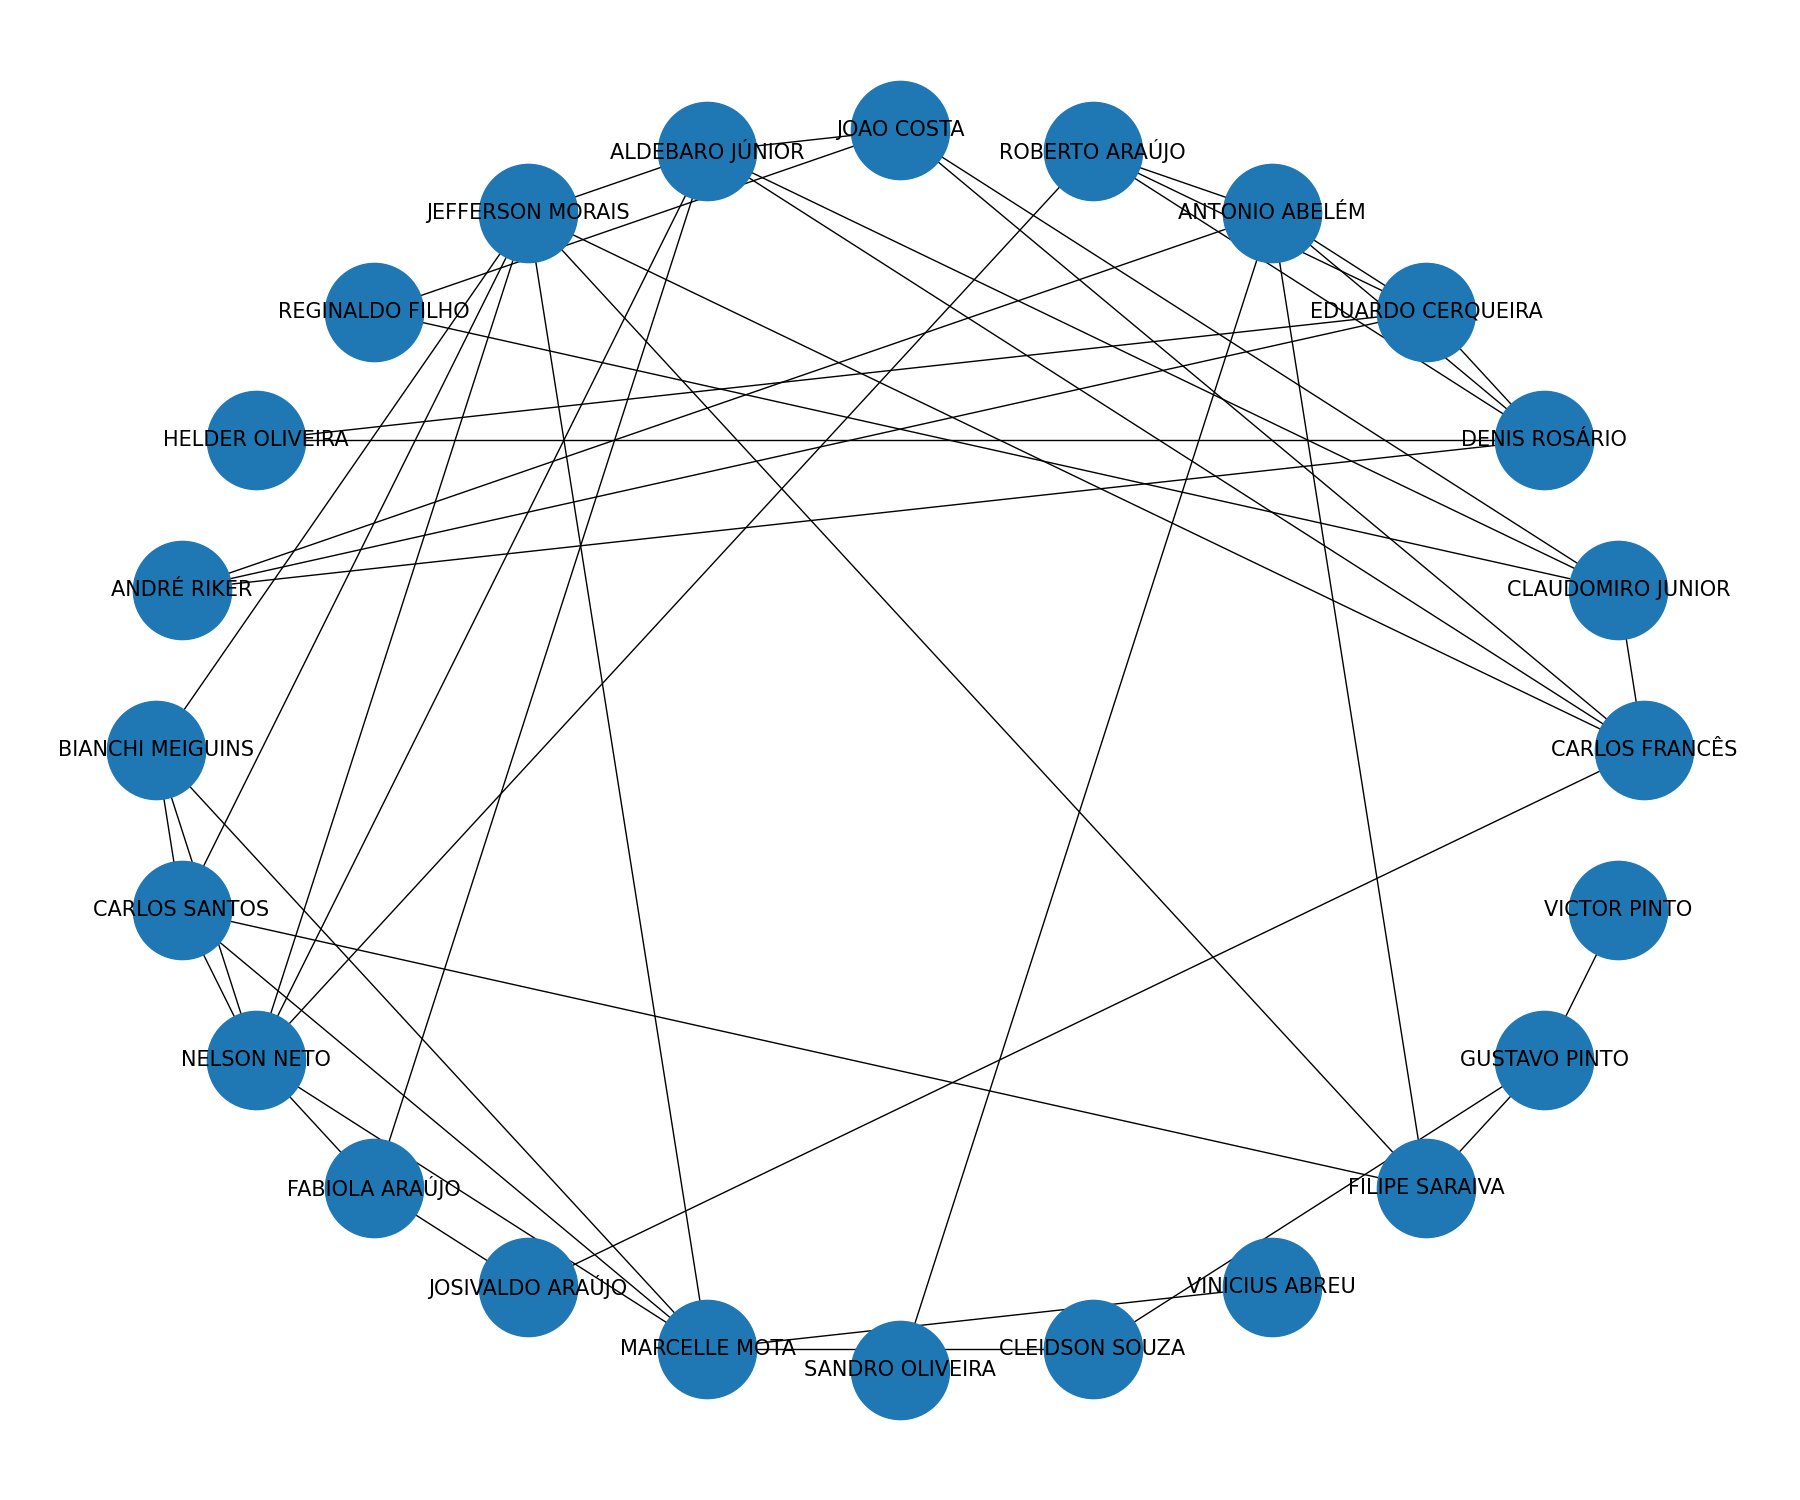
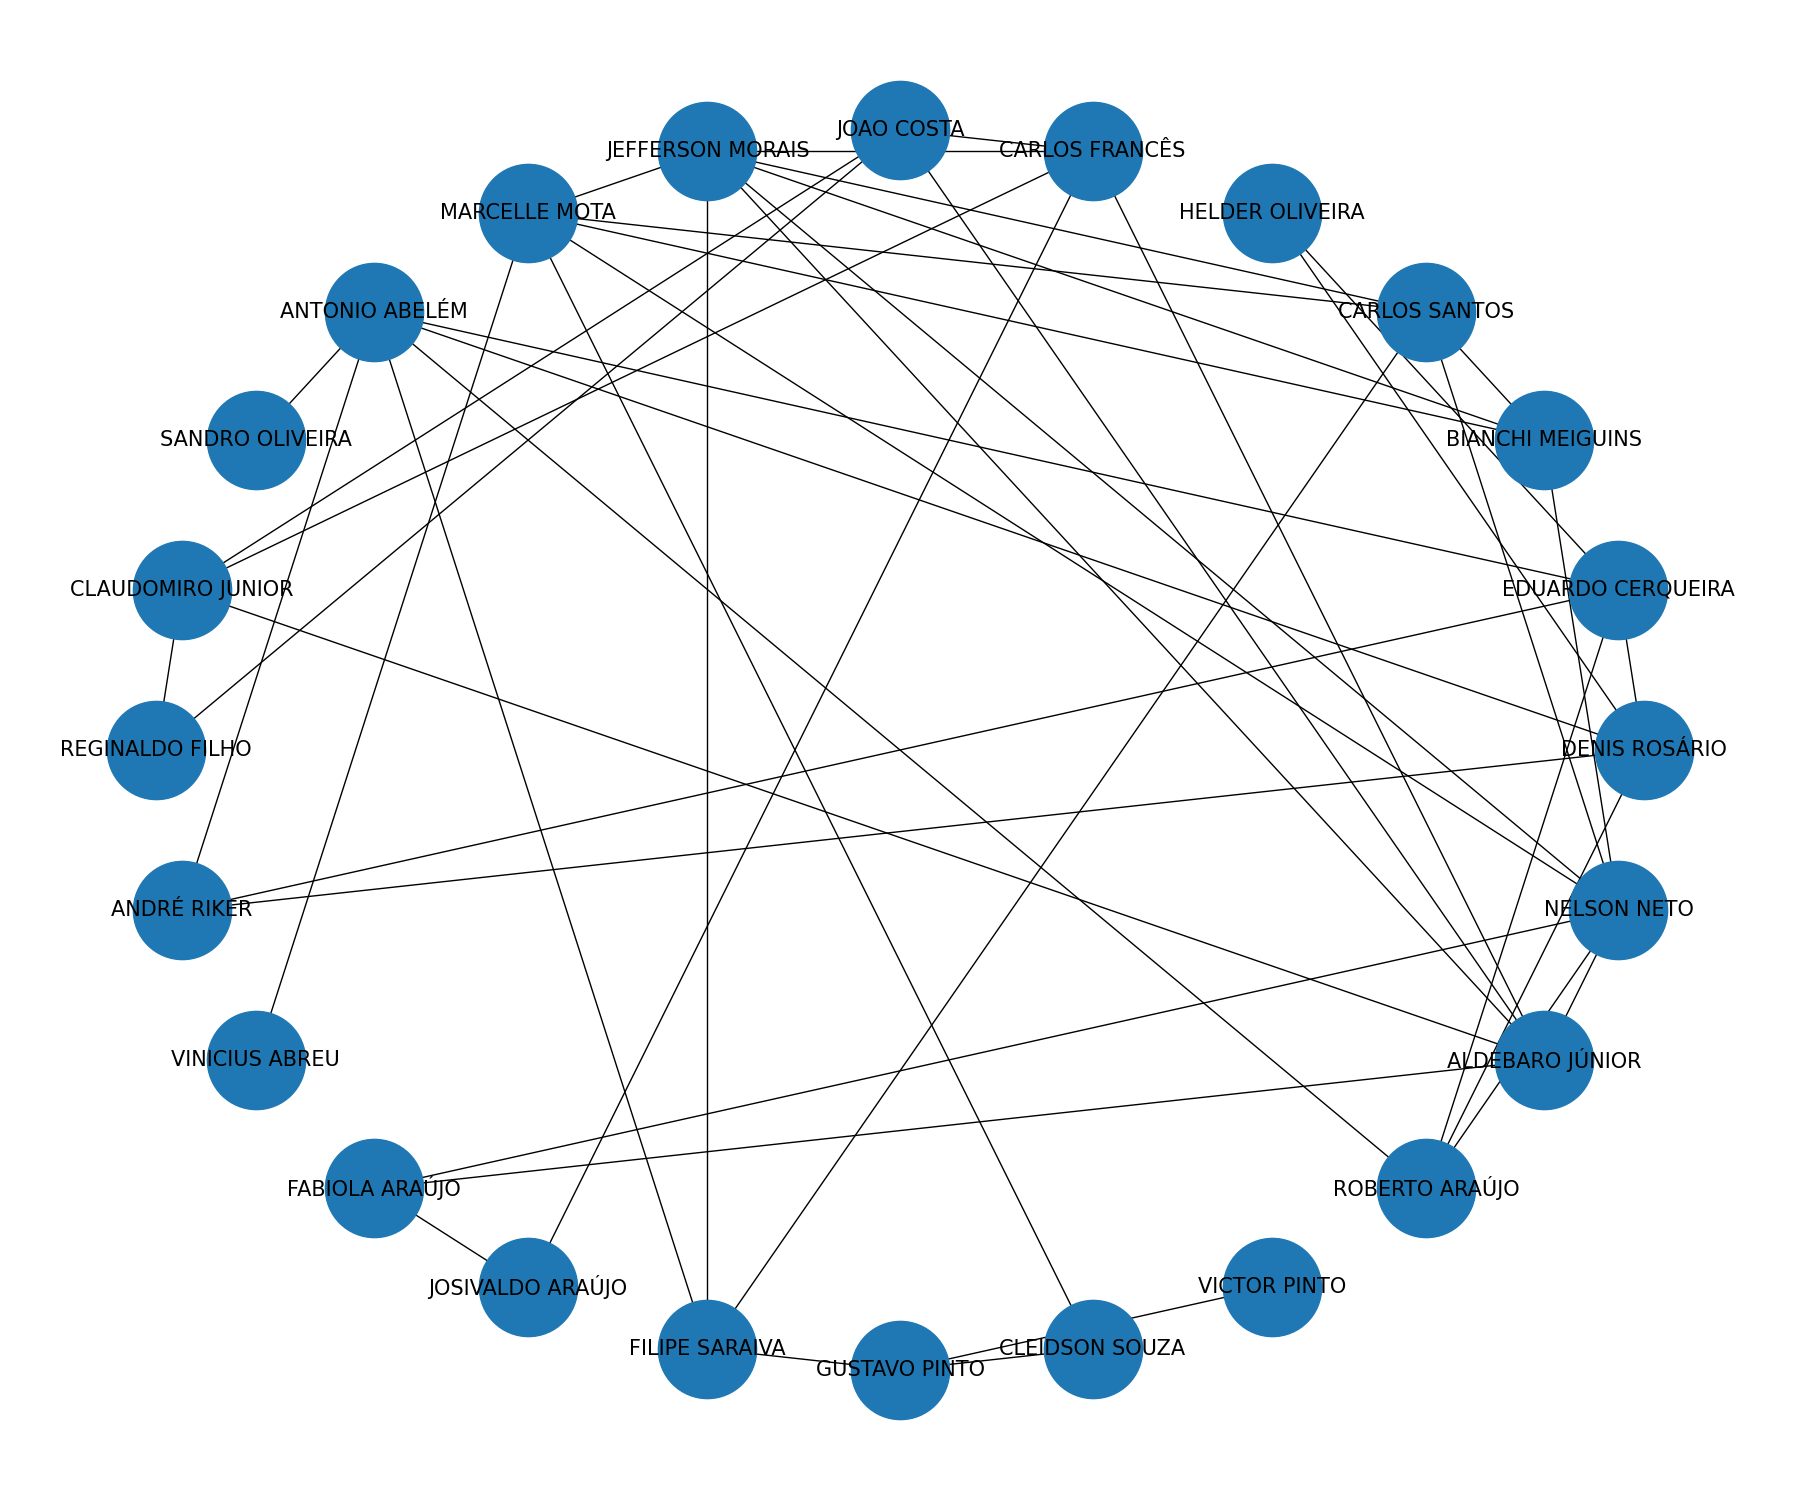
arrumar o grafo

diff --git a/models/consulta.py b/models/consulta.py
@@ -31,7 +31,8 @@ def lista_por_id(id):
 
 def lista(from_year, to_year):
 
-    sql = "select id, nome_docente, documento,ano_evento, titulo,doi,sigla,nome_evento, autores,estratos, round(notas,5) from resultados r WHERE ano_evento >= " + from_year + " AND ano_evento <= " + to_year + " order by ano_evento asc;"
+    sql = "select id, nome_docente, documento,ano_evento, titulo,doi,sigla,nome_evento, autores,estratos, round(notas,5) from resultados r WHERE ano_evento >= " + \
+        from_year + " AND ano_evento <= " + to_year + " order by ano_evento asc;"
     cursor = db.cursor()
     cursor.execute(sql.upper())
     resultado = cursor.fetchall()
@@ -51,7 +52,8 @@ def busca_prof():
 
 def soma_nota(from_year, to_year):
 
-    sql = ("SELECT distinct nome_docente , round(sum(notas),3) from resultados where nome_docente in (select distinct(nome_docente) from resultados) AND ano_evento >= " + from_year + " AND ano_evento <= " + to_year + " group by nome_docente order by nome_docente asc;")
+    sql = ("SELECT distinct nome_docente , round(sum(notas),3) from resultados where nome_docente in (select distinct(nome_docente) from resultados) AND ano_evento >= " +
+           from_year + " AND ano_evento <= " + to_year + " group by nome_docente order by nome_docente asc;")
     cursor = db.cursor()
     cursor.execute(sql)
     resultado = cursor.fetchall()
@@ -130,8 +132,10 @@ def titulo_repetidos(titulo):
     return resultado
 
 
-def docente_titulos_repetidos():
-    sql = "SELECT distinct  nome_docente FROM resultados r WHERE titulo in (SELECT DISTINCT titulo FROM resultados r group by titulo having COUNT(*) >1) group by titulo,nome_docente  order by titulo;"
+def docente_titulos_repetidos(from_year, to_year):
+    sql = "SELECT distinct nome_docente FROM resultados r WHERE titulo in (SELECT DISTINCT titulo FROM resultados r group by titulo having COUNT(*) >1) AND ano_evento >= '" + \
+        from_year+"'  AND ano_evento <= '"+to_year + \
+        "' group by titulo,nome_docente order by titulo;"
     cursor = db.cursor()
     cursor.execute(sql)
     resultado = cursor.fetchall()
@@ -181,7 +185,8 @@ def atualizar(id, doi, sigla, nome_evento, estratos, nota, versao):
 
 
 def total_estratos(from_year, to_year):
-    sql = "SELECT ano_evento,estratos, COUNT(estratos) from resultados r WHERE ano_evento >= '" + from_year + "' AND ano_evento <= '" + to_year + "' group by ano_evento,estratos;"
+    sql = "SELECT ano_evento,estratos, COUNT(estratos) from resultados r WHERE ano_evento >= '" + \
+        from_year + "' AND ano_evento <= '" + to_year + "' group by ano_evento,estratos;"
     print(sql)
 
     cursor = db.cursor()
@@ -194,10 +199,11 @@ def total_estratos(from_year, to_year):
 def perc(from_year, to_year):
     sql = ("select distinct total, 'Periódico', 'Conferência', round(periodico * 100 / total,3 ) as percentual_periodico, round(conferencia * 100 / total,3 ) as percentual_conferencia " +
            "from (select " +
-           "(select count(1) from resultados r  WHERE ano_evento >= " + from_year + " AND ano_evento <= " + to_year + ") as total,"
+           "(select count(1) from resultados r  WHERE ano_evento >= " +
+           from_year + " AND ano_evento <= " + to_year + ") as total,"
            "(select count(1) from resultados r where r.documento like '%Peri%'  AND ano_evento >= " + from_year + " AND ano_evento <= " + to_year + ") as periodico," +
            "(select count(1) from resultados r where r.documento like '%Conf%'  AND ano_evento >= " + from_year + " AND ano_evento <= " + to_year + ") as conferencia from resultados);")
-    
+
     print(sql)
     cursor = db.cursor()
     cursor.execute(sql)
@@ -230,7 +236,8 @@ def busca_conferencias():
 
 
 def media_docentes(from_year, to_year):
-    sql = "select nome_docente, round(sum(notas),3) as media from resultados r WHERE ano_evento >= " + from_year + " AND ano_evento <= " + to_year + " group by nome_docente ;"
+    sql = "select nome_docente, round(sum(notas),3) as media from resultados r WHERE ano_evento >= " + \
+        from_year + " AND ano_evento <= " + to_year + " group by nome_docente ;"
     cursor = db.cursor()
     cursor.execute(sql)
     resultado = cursor.fetchall()

diff --git a/app.py b/app.py
@@ -287,6 +287,7 @@ def imports():
 # *
 # TODO BUSCAR AMANHA
 
+
 @app.route("/upload", methods=['GET', 'POST'])
 def upload():
     if request.method == 'POST':
@@ -395,7 +396,7 @@ def resultado_total():
 
     medias = json.dumps(figura, cls=plotly.utils.PlotlyJSONEncoder)
 
-    colaboracao = grafico_colaboracao()
+    colaboracao = grafico_colaboracao(from_year=from_year, to_year=to_year)
 
     valor_padrao = 'circular'
 
@@ -618,11 +619,11 @@ def deletarDocente(docente):
 
 
 @app.route("/mostra_grafo", methods=['POST', 'GET'])
-def mostra_grafo():
+def mostra_grafo(from_year, to_year):
     if request.method == "POST":
         tipo = request.form['query']
 
-        g = grafico_colaboracao()
+        g = grafico_colaboracao(from_year, to_year)
         grafo = tipo_grafo(tipo, g)
         return tipo
 

diff --git a/models/grafico.py b/models/grafico.py
@@ -81,10 +81,10 @@ def grafico_media(from_year, to_year):
         outfile.write(json_object)
 
 
-def grafico_colaboracao():
+def grafico_colaboracao(from_year, to_year):
     lista_docente = []
     G = nx.Graph()
-    docente = docente_titulos_repetidos()
+    docente = docente_titulos_repetidos(from_year, to_year)
 
     for doc in docente:
         for d in doc:
